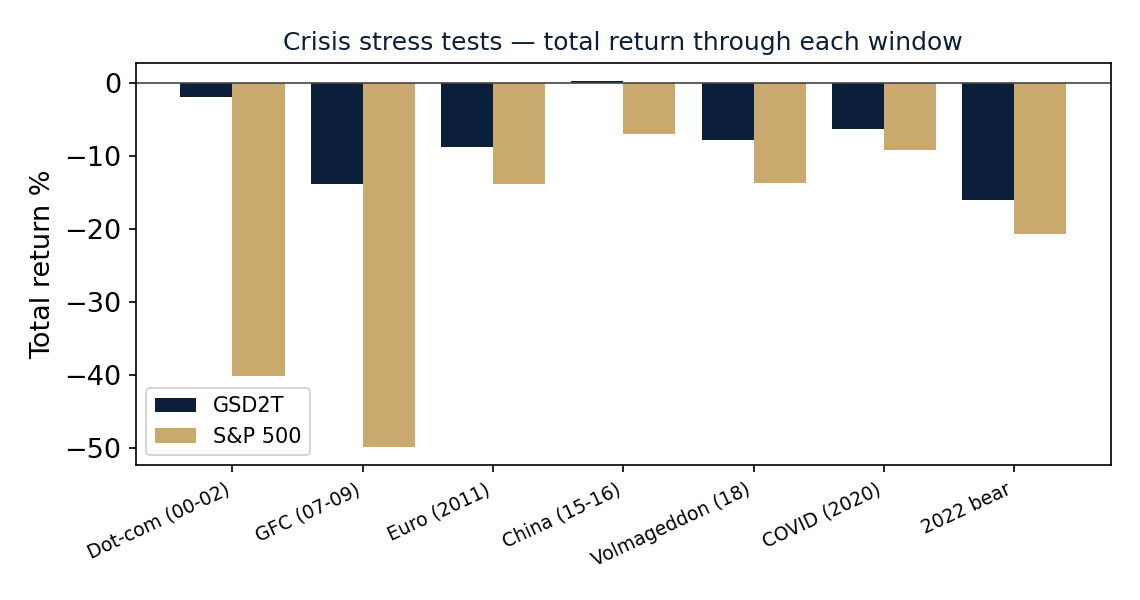
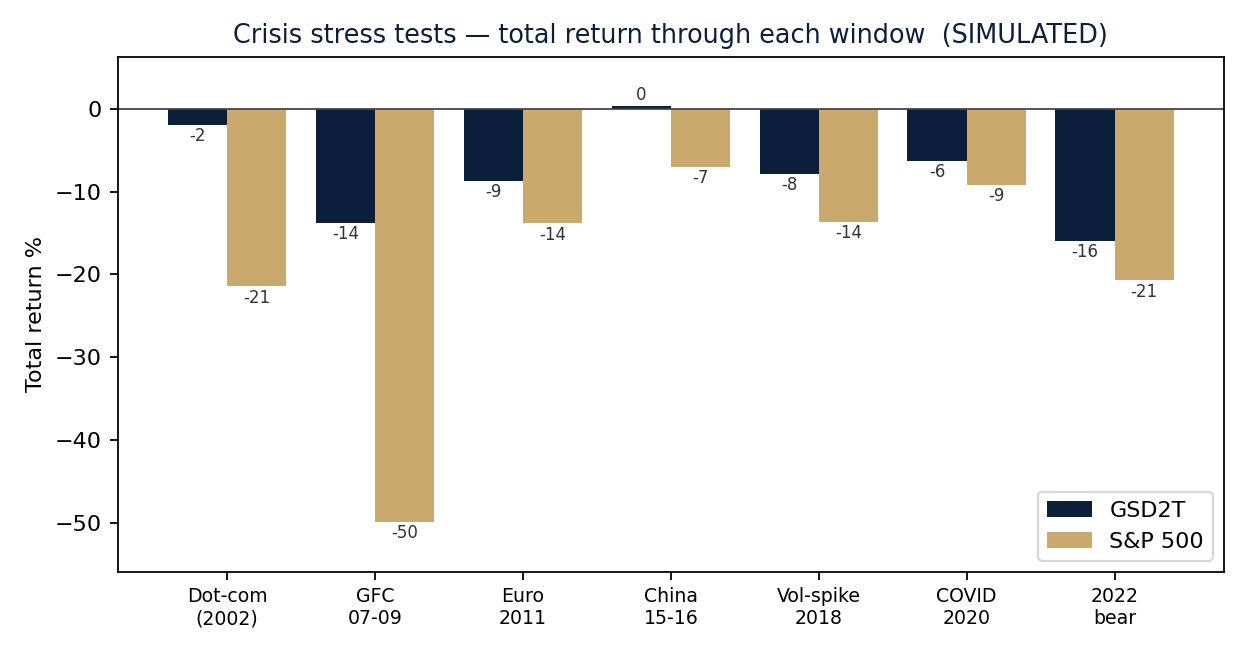
final final

diff --git a/build_stress_chart.py b/build_stress_chart.py
@@ -1,0 +1,29 @@
+"""Regenerate fig_deck_stress.png from the corrected v1_flagship.json (dot-com clamped to its 2002 leg,
+fund and SPY on the same dates). Matches the deck style; adds value labels and a SIMULATED tag.
+"""
+import json, matplotlib; matplotlib.use("Agg")
+import numpy as np, matplotlib.pyplot as plt
+
+V=json.load(open("v1_flagship.json")); st=V["stress"]
+NAVY="#0B1F3A"; GOLD="#C9A96E"
+# tidy display labels
+disp={"Dot-com (2002 leg)":"Dot-com\n(2002)","GFC (07-09)":"GFC\n07-09","Euro (2011)":"Euro\n2011",
+      "China (15-16)":"China\n15-16","Volmageddon (18)":"Vol-spike\n2018","COVID (2020)":"COVID\n2020","2022 bear":"2022\nbear"}
+labels=[disp.get(s["window"],s["window"]) for s in st]
+fund=[s["fund"]*100 for s in st]; spy=[s["spy"]*100 for s in st]
+
+fig,ax=plt.subplots(figsize=(7.8,4.1)); x=np.arange(len(st)); ww=0.40
+b1=ax.bar(x-ww/2,fund,ww,label="GSD2T",color=NAVY)
+b2=ax.bar(x+ww/2,spy,ww,label="S&P 500",color=GOLD)
+for bars in (b1,b2):
+    for r in bars:
+        h=r.get_height()
+        ax.annotate(f"{h:.0f}",(r.get_x()+r.get_width()/2,h),ha="center",
+                    va="top" if h<0 else "bottom",fontsize=7.5,color="#333",xytext=(0,-1 if h<0 else 1),textcoords="offset points")
+ax.set_xticks(x); ax.set_xticklabels(labels,fontsize=8.5)
+ax.axhline(0,color="#444",lw=.8); ax.set_ylabel("Total return %"); ax.legend(fontsize=10,loc="lower right")
+ax.set_title("Crisis stress tests — total return through each window  (SIMULATED)",fontsize=11.5,color=NAVY)
+ax.margins(y=0.12)
+fig.tight_layout(); fig.savefig("fig_deck_stress.png",dpi=160); plt.close(fig)
+print("Saved fig_deck_stress.png")
+for s in st: print(f"  {s['window']:<18} fund {s['fund']*100:6.1f}%  spy {s['spy']*100:6.1f}%")

diff --git a/build_quant_appendix.py b/build_quant_appendix.py
@@ -183,11 +183,14 @@ print("equity-factor model cannot span (see §13). The cleanest, model-free wins
 betas=pd.DataFrame({"beta":res.params.drop('const').round(2),"t-stat":res.tvalues.drop('const').round(1)})
 betas""")
 
-md("## 7 · Stress tests — behaviour in every major crisis (and where the protection comes from)")
-code("""windows={"Dot-com 00-02":("2000-09-30","2002-10-31"),"GFC 07-09":("2007-10-31","2009-02-28"),
+md("""## 7 · Stress tests — behaviour in every major crisis (and where the protection comes from)
+
+**Windows are clamped to the live period (≥ 2002).** The overlay needs ~24 months to form, so 2000–2001 is warm-up and is *excluded* from every crisis stat — fund and S&P are always measured on the **same dates**. The dot-com window therefore reflects only its **2002 leg** (the part the strategy actually traded); we do not credit the fund for "avoiding" the 2000–2001 crash it was never live for.""")
+code("""# clamp every window to >= START so no crisis stat uses warm-up data and fund vs SPY share the same dates
+windows={"Dot-com (2002 leg)":("2000-09-30","2002-10-31"),"GFC 07-09":("2007-10-31","2009-02-28"),
  "Euro 2011":("2011-07-31","2011-09-30"),"China 15-16":("2015-08-31","2016-02-29"),
  "Vol-spike 2018":("2018-10-31","2018-12-31"),"COVID 2020":("2020-02-29","2020-04-30"),"2022 bear":("2021-12-31","2022-09-30")}
-def tot(s,a,b): seg=s.loc[a:b].dropna(); return float((1+seg).prod()-1) if len(seg) else np.nan
+def tot(s,a,b): seg=s.loc[START:].loc[a:b].dropna(); return float((1+seg).prod()-1) if len(seg) else np.nan
 rows=[]
 for nm,(a,b) in windows.items():
     rows.append({"Window":nm,"Fund":tot(port,a,b),"SPY":tot(spy,a,b),

diff --git a/build_v1_flagship.py b/build_v1_flagship.py
@@ -64,10 +64,11 @@ d=pd.concat([(ret-rf.reindex(ret.index)).rename("y"),ff[cols]],axis=1).dropna()
 res=sm.OLS(d["y"],sm.add_constant(d[cols])).fit(cov_type="HAC",cov_kwds={"maxlags":6})
 
 # stress windows
-windows={"Dot-com (00-02)":("2000-09-30","2002-10-31"),"GFC (07-09)":("2007-10-31","2009-02-28"),
+windows={"Dot-com (2002 leg)":("2000-09-30","2002-10-31"),"GFC (07-09)":("2007-10-31","2009-02-28"),
  "Euro (2011)":("2011-07-31","2011-09-30"),"China (15-16)":("2015-08-31","2016-02-29"),
  "Volmageddon (18)":("2018-10-31","2018-12-31"),"COVID (2020)":("2020-02-29","2020-04-30"),"2022 bear":("2021-12-31","2022-09-30")}
-def tot(r,s,e): seg=r.loc[s:e].dropna(); return float((1+seg).prod()-1) if len(seg) else None
+# clamp every window to >= START (2002): no crisis stat uses warm-up data, and fund vs SPY share the same dates
+def tot(r,s,e): seg=r.loc[START:].loc[s:e].dropna(); return float((1+seg).prod()-1) if len(seg) else None
 stress=[{"window":k,"fund":tot(ret,s,e),"spy":tot(spy,s,e)} for k,(s,e) in windows.items()]
 
 # net-of-fee (1% mgmt monthly + 15% over SPY, relative HWM, annual crystallisation)